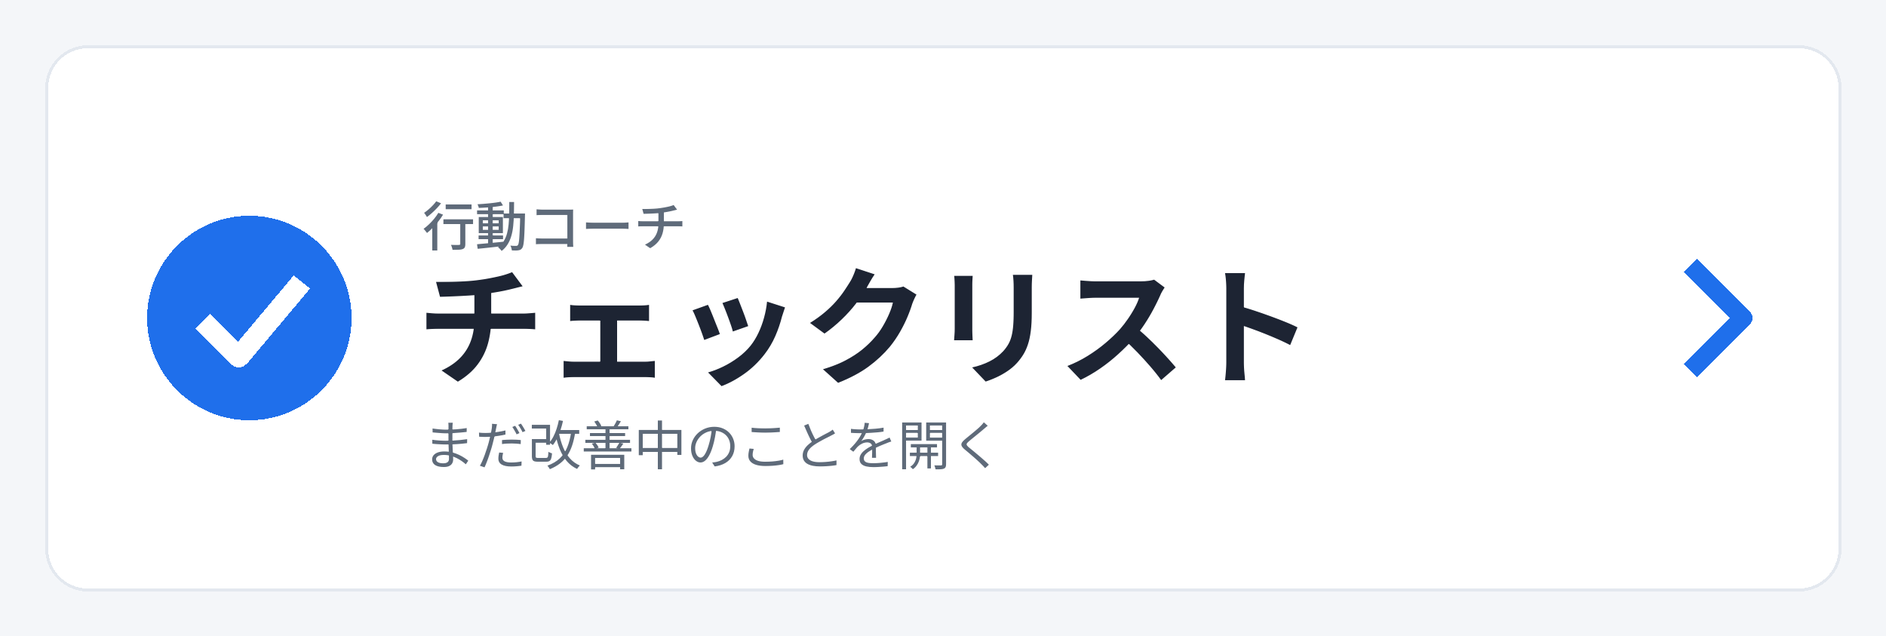
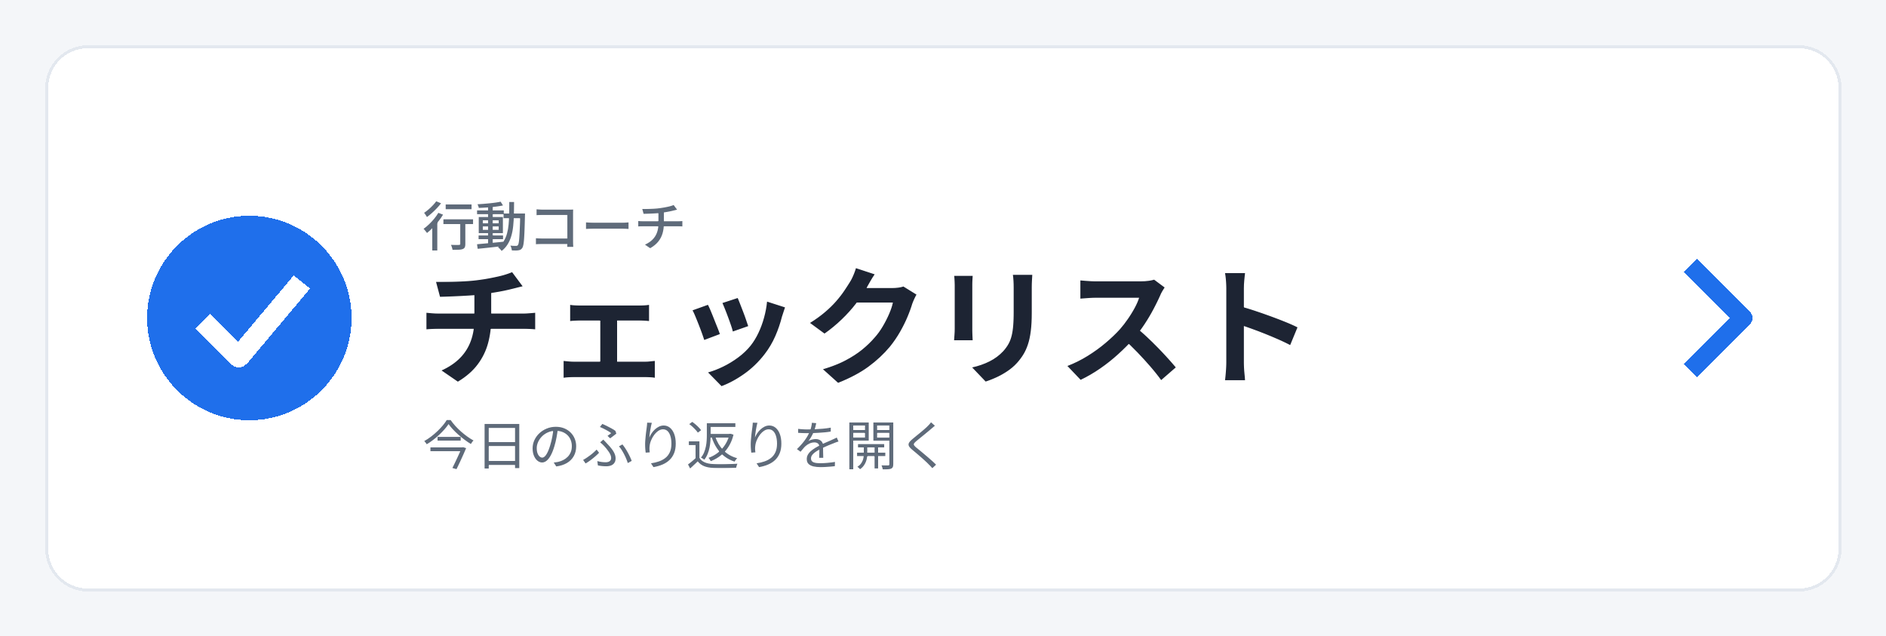
毎日のふり返り（案C：取り組む10・候補・定着）

Changed region(s): [[0.2184, 0.6477, 0.5304, 0.7402]]

diff --git a/index.html b/index.html
@@ -8,181 +8,226 @@
 <link rel="preconnect" href="https://script.google.com">
 <link rel="preconnect" href="https://script.googleusercontent.com">
 <!--
-  行動コーチのチェックリスト（LINE の中でせり出す画面＝LIFF のページ）。デザインは案6「大きなタップと右のチェック」（2026-10-11 ユーザー選定）
-  Google の帯を出さないため、GitHub Pages に置く。このファイルには記録も合言葉も入れない。
+  行動コーチの「今日のふり返り」（LINE の中でせり出す画面＝LIFF のページ）
+  - いま取り組む10を毎日ふり返り、「できた」を押す（2択）。定着したら外す（2026-10-11 ユーザーの希望）
+  - デザイン案C：上に今日の数と7日の棒、リストは名前だけ。「編集」で − と ＋（項目ごとの7日の数も編集のときだけ出す）
+  - 見た目は AI家計簿にそろえる。Google の帯を出さないため GitHub Pages に置く。記録も合言葉もこのファイルには入れない
   開き方：LIFF の Endpoint URL = このページ?k=合言葉&api=スプレッドシート側の公開URL
-          カードから開くときの条件（q・focus）は、LINE が liff.state に入れて渡す
-  記録の読み書きは api（Apps Script の doGet）に JSON で頼む。元のコードは 04_Claude/14_BehaviorCoach/checklist/index.html
+  元のコードは 03_program リポジトリの 04_Claude/14_BehaviorCoach/checklist/index.html
 -->
 <style>
-  /* 見た目は AI家計簿の報告ページ（11_HouseholdManagement/gas/src/Report.html）にそろえる（2026-10-11 ユーザーの希望）
-     白いカード・細い線・角丸14px・薄い影・青、文字はスマホ標準 */
   :root {
     --bg: #f4f6f9; --card: #ffffff; --ink: #1d2433; --sub: #5f6b7a; --line: #e3e8ef; --soft: #f6f8fb;
-    --accent: #1f6feb; --accent-soft: #eef4ff; --ok: #1a8a4a; --ok-soft: #e8f5ed; --amber: #b06d00; --ring: #c5cdd8;
+    --accent: #1f6feb; --accent-soft: #eef4ff; --bar: #c9dafc; --ok: #1a8a4a; --ok-soft: #e8f5ed; --amber: #b06d00; --ring: #c5cdd8; --red: #e5484d;
     --shadow: 0 1px 2px rgba(20,30,50,.06), 0 4px 16px rgba(20,30,50,.05);
   }
   @media (prefers-color-scheme: dark) {
     :root { --bg: #10141b; --card: #1a2029; --ink: #e8edf4; --sub: #9aa7b8; --line: #2a323e; --soft: #212834;
-      --accent: #5b9dff; --accent-soft: #1b2a40; --ok: #4cc27f; --ok-soft: #173326; --amber: #e5b23a; --ring: #4a5666; --shadow: none; color-scheme: dark; }
+      --accent: #5b9dff; --accent-soft: #1b2a40; --bar: #2c4166; --ok: #4cc27f; --ok-soft: #173326; --amber: #e5b23a; --ring: #4a5666; --red: #ff6b6b; --shadow: none; color-scheme: dark; }
   }
   * { box-sizing: border-box; }
   html, body { margin: 0; }
   body { background: var(--bg); color: var(--ink); font-family: -apple-system, BlinkMacSystemFont, "Hiragino Sans", "Noto Sans JP", "Yu Gothic UI", sans-serif;
     font-size: 15px; line-height: 1.55; -webkit-text-size-adjust: 100%; padding-bottom: env(safe-area-inset-bottom, 0px); }
-  button, select { font: inherit; color: inherit; }
+  button { font: inherit; color: inherit; }
   .wrap { max-width: 640px; margin: 0 auto; padding: 14px 16px 32px; }
-  header { display: flex; align-items: flex-end; justify-content: space-between; gap: 8px; margin: 2px 0 12px; }
+  header { display: flex; align-items: flex-end; gap: 8px; margin: 2px 0 12px; }
   header .app { font-size: 12px; color: var(--sub); }
   header h1 { font-size: 22px; margin: 0; letter-spacing: .02em; }
-  header select { font-size: 13px; border: 1px solid var(--line); border-radius: 999px; padding: 6px 12px; background: var(--card); }
-  .scope { display: flex; gap: 6px; overflow-x: auto; scrollbar-width: none; margin: 0 -16px 4px; padding: 0 16px; }
-  .scope::-webkit-scrollbar { display: none; }
-  .scope button { flex: 0 0 auto; border: 1px solid var(--line); background: var(--card); border-radius: 999px; padding: 6px 13px; font-size: 13px; cursor: pointer; white-space: nowrap; }
-  .scope button.on { background: var(--ink); color: var(--bg); border-color: var(--ink); }
-  .meta { font-size: 12px; color: var(--sub); margin: 6px 2px 10px; min-height: 18px; }
+  .edit { margin-left: auto; border: 1px solid var(--line); background: var(--card); border-radius: 999px; padding: 6px 14px; font-size: 13px; cursor: pointer; }
+  .edit.on { background: var(--accent); border-color: var(--accent); color: #fff; }
   .card { background: var(--card); border: 1px solid var(--line); border-radius: 14px; box-shadow: var(--shadow); overflow: hidden; margin-bottom: 14px; }
   .card h2 { font-size: 13px; color: var(--sub); font-weight: 600; margin: 0; padding: 12px 14px 4px; letter-spacing: .04em; }
+  .stat { display: flex; align-items: center; gap: 14px; padding: 14px; }
+  .big { font-size: 30px; font-weight: 700; font-variant-numeric: tabular-nums; line-height: 1; }
+  .big span { font-size: 15px; color: var(--sub); font-weight: 600; }
+  .stat small { display: block; font-size: 12px; color: var(--sub); margin-top: 4px; }
+  .bars { margin-left: auto; display: flex; gap: 6px; align-items: flex-end; height: 48px; padding-bottom: 14px; position: relative; }
+  .bars div { width: 16px; border-radius: 3px 3px 0 0; background: var(--bar); position: relative; min-height: 3px; transition: height .25s; }
+  .bars div.t { background: var(--accent); }
+  .bars span { position: absolute; top: 100%; left: 50%; transform: translateX(-50%); font-size: 10px; color: var(--sub); margin-top: 2px; white-space: nowrap; }
   .it { border-top: 1px solid var(--line); }
-  .card h2 + .it, .card > .it:first-child { border-top: 0; }
+  .it:first-child, .card h2 + .it { border-top: 0; }
   .row { display: flex; align-items: stretch; }
-  .main { flex: 1; min-width: 0; padding: 12px 6px 12px 14px; border: 0; background: none; text-align: left; cursor: pointer; }
+  .minus, .plus { flex: 0 0 auto; width: 26px; height: 26px; border-radius: 50%; border: 0; color: #fff; font-weight: 700; font-size: 16px; line-height: 1; cursor: pointer; align-self: center; margin-left: 12px; }
+  .minus { background: var(--red); }
+  .plus { background: var(--ok); margin: 0 12px 0 0; }
+  .main { flex: 1; min-width: 0; padding: 13px 6px 13px 14px; border: 0; background: none; text-align: left; cursor: pointer; }
   .nm { font-size: 15px; font-weight: 600; line-height: 1.45; }
-  .sb { font-size: 12px; color: var(--sub); margin-top: 2px; }
-  .tag { display: inline-block; font-size: 11px; color: var(--sub); border: 1px solid var(--line); border-radius: 4px; padding: 0 4px; margin-right: 6px; }
+  .tag { display: inline-block; font-size: 11px; color: var(--sub); border: 1px solid var(--line); border-radius: 4px; padding: 0 4px; margin-top: 3px; }
+  .rate { flex: 0 0 auto; align-self: center; padding: 0 14px; font-size: 12px; color: var(--sub); font-variant-numeric: tabular-nums; white-space: nowrap; }
   .ck { flex: 0 0 66px; border: 0; border-left: 1px solid var(--line); background: var(--soft); cursor: pointer; font-size: 11.5px; color: var(--sub); padding: 0; transition: background .2s, color .2s; }
   .ck i { font-style: normal; width: 28px; height: 28px; border-radius: 50%; border: 2px solid var(--ring); margin: 0 auto 3px; display: grid; place-items: center; font-size: 14px; transition: transform .15s, background .2s, border-color .2s; }
   .done .ck { background: var(--ok-soft); color: var(--ok); }
   .done .ck i { background: var(--ok); border-color: var(--ok); color: #fff; transform: scale(1.06); }
-  .done .nm { color: var(--sub); }
   .det { display: none; padding: 0 14px 14px; font-size: 14px; }
   .open .det { display: block; }
   .dl { font-size: 11px; font-weight: 700; margin: 8px 0 3px; }
   .plan { background: var(--accent-soft); color: var(--accent); border-radius: 10px; padding: 8px 10px; }
   .ev { display: grid; grid-template-columns: 44px 1fr; gap: 6px; font-size: 13px; padding: 2px 0; }
   .ev .d { color: var(--sub); }
+  .crow { display: flex; align-items: center; padding: 11px 14px; border-top: 1px solid var(--line); }
+  .card h2 + .crow { border-top: 0; }
+  .crow .t { flex: 1; min-width: 0; font-size: 14px; }
+  .crow small { display: block; font-size: 11.5px; color: var(--sub); }
   .empty { padding: 18px 14px; text-align: center; color: var(--sub); font-size: 14px; }
-  .foot { font-size: 12px; color: var(--sub); margin: 4px 2px 0; }
-  .toast { position: fixed; left: 50%; bottom: calc(18px + env(safe-area-inset-bottom, 0px)); transform: translateX(-50%); background: var(--ink); color: var(--bg); padding: 8px 14px; border-radius: 999px; font-size: 13px; opacity: 0; transition: opacity .2s; pointer-events: none; max-width: 90%; }
+  .note { font-size: 12px; color: var(--sub); margin: 0 2px 12px; }
+  .scrim { position: fixed; inset: 0; background: rgba(0,0,0,.3); opacity: 0; pointer-events: none; transition: opacity .2s; z-index: 4; }
+  .sheet { position: fixed; left: 0; right: 0; bottom: 0; background: var(--card); border-radius: 16px 16px 0 0; box-shadow: 0 -8px 24px rgba(0,0,0,.15); transform: translateY(105%); transition: transform .25s; max-height: 75vh; overflow-y: auto; z-index: 5; padding-bottom: calc(10px + env(safe-area-inset-bottom, 0px)); }
+  .sheet.open { transform: none; } .scrim.open { opacity: 1; pointer-events: auto; }
+  .sheet .hd { display: flex; gap: 8px; padding: 14px 14px 6px; font-weight: 700; font-size: 15px; }
+  .sheet .hd button { margin-left: auto; border: 0; background: none; font-size: 20px; line-height: 1; cursor: pointer; color: var(--sub); }
+  .sheet .sub { padding: 0 14px 6px; font-size: 12.5px; color: var(--sub); }
+  .opt { display: block; width: calc(100% - 28px); margin: 8px 14px; text-align: left; border: 1px solid var(--line); background: var(--card); border-radius: 12px; padding: 11px 13px; cursor: pointer; }
+  .opt b { display: block; font-size: 15px; }
+  .opt small { color: var(--sub); font-size: 12px; }
+  .opt.ok b { color: var(--ok); }
+  .toast { position: fixed; left: 50%; bottom: calc(18px + env(safe-area-inset-bottom, 0px)); transform: translateX(-50%); background: var(--ink); color: var(--bg); padding: 8px 14px; border-radius: 999px; font-size: 13px; opacity: 0; transition: opacity .2s; pointer-events: none; max-width: 90%; z-index: 9; }
   .toast.on { opacity: .95; }
-  .skel { height: 62px; border-top: 1px solid var(--line); }
-  .skel:first-child { border-top: 0; }
+  .skel { height: 58px; border-top: 1px solid var(--line); } .skel:first-child { border-top: 0; }
   @media (prefers-reduced-motion: reduce) { * { transition: none !important; } }
 </style>
 </head>
 <body>
 <div class="wrap">
   <header>
-    <div><div class="app">行動コーチ</div><h1>まだ改善中のこと</h1></div>
-    <select id="period" aria-label="期間">
-      <option value="">全部</option><option>今週</option><option>先週</option><option>今月</option><option>先月</option><option>今年</option>
-    </select>
+    <div><div class="app">行動コーチ</div><h1>今日のふり返り</h1></div>
+    <button class="edit" id="edit">編集</button>
   </header>
-  <div class="scope" id="scope"></div>
-  <div class="meta" id="meta">読み込み中…</div>
+  <div class="card"><div class="stat"><div><div class="big" id="big">–</div><small>今日できた</small></div><div class="bars" id="bars"></div></div></div>
   <div class="card" id="list"><div class="skel"></div><div class="skel"></div><div class="skel"></div></div>
-  <div id="arch"></div>
-  <p class="foot">右の「できた」を押すとクリアになる。もう一度押すと改善中に戻る。同じ型のことがまた起きたら、クリアにしたものも自動で改善中に戻る。</p>
+  <div id="extra"></div>
+  <p class="note" id="note">できたものの右を押す。日付が変わると、まっさらに戻る（記録は残る）。</p>
 </div>
+<div class="scrim" id="scrim"></div>
+<div class="sheet" id="sheet" role="dialog"></div>
 <div class="toast" id="toast" role="status"></div>
 
 <script>
 (function () {
-  var SCOPES = ['すべて', '家庭・夫婦', '職場', '友人・知人', '親族', 'ひとり'];
-  var PERIOD_WORDS = ['今週', '先週', '今月', '先月', '今年'];
-
-  // ---- 呼び出しの条件を読む（LIFF は ?q=… を liff.state に入れて渡す） ----
+  // ---- 呼び出しの条件（LIFF は追加の条件を liff.state に入れて渡す） ----
   var params = new URLSearchParams(location.search);
   var state = params.get('liff.state');
   if (state) new URLSearchParams(state.replace(/^[^?]*\?/, '')).forEach(function (v, k) { params.set(k, v); });
-  var KEY = params.get('k') || '';
-  var API = params.get('api') || '';
-  var focus = (params.get('focus') || '').replace(/[^A-Za-z0-9-]/g, '');
-  var words = (params.get('q') || '').split(/[\s　、,]+/).filter(Boolean);
-  var period = '', scope = 'すべて', rest = [];
-  words.forEach(function (w) {
-    if (!period && PERIOD_WORDS.indexOf(w) >= 0) period = w;
-    else if (scope === 'すべて' && SCOPES.indexOf(w) > 0) scope = w;
-    else if (scope === 'すべて' && { '夫婦': 1, '家庭': 1, '家': 1 }[w]) scope = '家庭・夫婦';
-    else if (scope === 'すべて' && { '仕事': 1, '会社': 1 }[w]) scope = '職場';
-    else rest.push(w); // 「妻」など相手の言葉や、10月のような期間はそのままサーバーに渡す
-  });
-  var DATA = null;
+  var KEY = params.get('k') || '', API = params.get('api') || '';
+  var DATA = null, editing = false, pending = 0, seq = 0;
 
   var $ = function (id) { return document.getElementById(id); };
   var esc = function (s) { return String(s == null ? '' : s).replace(/[&<>"]/g, function (c) { return { '&': '&amp;', '<': '&lt;', '>': '&gt;', '"': '&quot;' }[c]; }); };
   var md = function (s) { var m = String(s || '').match(/^\d{4}-(\d{2})-(\d{2})/); return m ? Number(m[1]) + '/' + Number(m[2]) : esc(s); };
   function toast(t) { var x = $('toast'); x.textContent = t; x.classList.add('on'); clearTimeout(toast.t); toast.t = setTimeout(function () { x.classList.remove('on'); }, 1600); }
-
-  function query() { return [period, scope === 'すべて' ? '' : scope].concat(rest).filter(Boolean).join(' '); }
   function call(p) {
     var u = API + (API.indexOf('?') >= 0 ? '&' : '?') + 'k=' + encodeURIComponent(KEY) + '&' + new URLSearchParams(p).toString();
     return fetch(u).then(function (r) { return r.json(); }).then(function (j) { if (!j.ok) throw new Error(j.error || '失敗'); return j.data; });
   }
+  // 前回の中身をスマホに覚えておき、開いた瞬間に出す（日付が違えばチェックはまっさらにして出す）
+  function remember() { try { localStorage.setItem('bc:daily', JSON.stringify(DATA)); } catch (e) { /* 覚えなくても動く */ } }
+  function recall() {
+    try {
+      var d = JSON.parse(localStorage.getItem('bc:daily') || 'null');
+      var n = new Date(), t = n.getFullYear() + '-' + ('0' + (n.getMonth() + 1)).slice(-2) + '-' + ('0' + n.getDate()).slice(-2);
+      if (d && d.date !== t) { d.items.forEach(function (i) { i.checked = false; }); d.todayDone = 0; }
+      return d;
+    } catch (e) { return null; }
+  }
+  function find(id, from) { var a = from || DATA.items; for (var i = 0; i < a.length; i++) if (a[i].id === id) return a[i]; return null; }
+  function recount() {
+    DATA.todayDone = DATA.items.filter(function (i) { return i.checked; }).length; DATA.total = DATA.items.length;
+    if (DATA.week && DATA.week.length) DATA.week[DATA.week.length - 1].rate = DATA.total ? DATA.todayDone / DATA.total : 0;
+  }
 
   function itemHtml(it) {
     var ev = (it.events || []).map(function (e) { return '<div class="ev"><span class="d">' + md(e.date) + '</span><span>' + esc(e.text) + (e.partner ? '（' + esc(e.partner) + '）' : '') + '</span></div>'; }).join('');
-    return '<div class="it' + (it.cleared ? ' done' : '') + (it.id === focus ? ' open' : '') + '" id="' + esc(it.id) + '">' +
-      '<div class="row"><button class="main" data-o="' + esc(it.id) + '"><div class="nm">' + esc(it.name) + '</div>' +
-      '<div class="sb">' + (it.domains || []).map(function (d) { return '<span class="tag">' + esc(d) + '</span>'; }).join('') + '最後 ' + md(it.last) + '</div></button>' +
-      '<button class="ck" data-c="' + esc(it.id) + '" aria-pressed="' + !!it.cleared + '"><i>' + (it.cleared ? '✓' : '') + '</i>' + (it.cleared ? 'クリア' : 'できた') + '</button></div>' +
+    var right = editing ? '<span class="rate">7日で' + (it.rate7 || 0) + '</span>'
+      : '<button class="ck" data-c="' + esc(it.id) + '" aria-pressed="' + !!it.checked + '"><i>' + (it.checked ? '✓' : '') + '</i>' + (it.checked ? 'できた' : '今日は？') + '</button>';
+    return '<div class="it' + (it.checked && !editing ? ' done' : '') + '" id="i-' + esc(it.id) + '"><div class="row">' +
+      (editing ? '<button class="minus" data-rm="' + esc(it.id) + '" aria-label="外す">−</button>' : '') +
+      '<button class="main" data-o="' + esc(it.id) + '"><div class="nm">' + esc(it.name) + '</div>' + ((it.domains || [])[0] ? '<span class="tag">' + esc(it.domains[0]) + '</span>' : '') + '</button>' + right + '</div>' +
       '<div class="det">' + (it.plan ? '<div class="dl" style="color:var(--accent)">次にすること</div><div class="plan">' + esc(it.plan) + '</div>' : '') +
       (it.essence ? '<div class="dl" style="color:var(--amber)">本質（見立て）</div><div>' + esc(it.essence) + '</div>' : '') +
-      (ev ? '<div class="dl" style="color:var(--sub)">出来事（新しい順）</div>' + ev : '') + '</div></div>';
+      (ev ? '<div class="dl" style="color:var(--sub)">最近の出来事</div>' + ev : '') + '</div></div>';
   }
 
   function render() {
-    $('period').value = period;
-    $('scope').innerHTML = SCOPES.map(function (s) { return '<button class="' + (s === scope ? 'on' : '') + '" data-s="' + s + '">' + s + '</button>'; }).join('');
+    $('edit').textContent = editing ? '完了' : '編集';
+    $('edit').classList.toggle('on', editing);
     if (!DATA) return;
-    $('meta').textContent = DATA.label + (DATA.range ? '（' + DATA.range + '）' : '') + (DATA.omitted ? '　重さと新しさで選んだ' + DATA.items.length + 'つ（ほかに' + DATA.omitted + '）' : '');
-    $('list').innerHTML = DATA.items.length ? DATA.items.map(itemHtml).join('') : '<div class="empty">この条件では、改善中のことはない。</div>';
-    $('arch').innerHTML = DATA.archived.length ? '<div class="card"><h2>クリアにしたもの</h2>' + DATA.archived.map(itemHtml).join('') + '</div>' : '';
-    if (focus) { var f = $(focus); if (f) f.scrollIntoView({ block: 'center' }); focus = ''; }
+    $('big').innerHTML = DATA.todayDone + '<span>/' + DATA.total + '</span>';
+    $('bars').innerHTML = (DATA.week || []).map(function (w, i, a) { return '<div class="' + (i === a.length - 1 ? 't' : '') + '" style="height:' + Math.max(3, Math.round(w.rate * 34)) + 'px"><span>' + esc(w.label) + '</span></div>'; }).join('');
+    $('list').innerHTML = DATA.items.length ? DATA.items.map(itemHtml).join('') : '<div class="empty">取り組むものがまだない。' + (DATA.candidates.length ? '「編集」から候補を足す。' : 'LINE にメモを送ると、ここに入る。') + '</div>';
+    var ex = '';
+    if (editing) {
+      ex += '<div class="card"><h2>候補から足す（入れるとよい順）</h2>' + (DATA.candidates.length ? DATA.candidates.map(function (c) {
+        return '<div class="crow"><button class="plus" data-add="' + esc(c.id) + '" aria-label="足す">＋</button><div class="t">' + esc(c.name) + '<small>' + esc((c.domains || []).join('・')) + (c.last ? '　最後 ' + md(c.last) : '') + '</small></div></div>';
+      }).join('') : '<div class="empty">候補はない。</div>') + '</div>';
+      ex += '<p class="note">− で外す（定着した／候補に戻す）。取り組むは最大10。いっぱいのときに ＋ を押すと、入れ替える相手を選べる。定着したもの ' + (DATA.graduated || 0) + '。</p>';
+    }
+    $('extra').innerHTML = ex;
+    $('note').hidden = editing;
   }
 
-  // 前回の中身をスマホに覚えておき、開いた瞬間に出す。新しい中身は裏で読み直して差し替える（開くのを速くする）
-  function cacheKey() { return 'bc:' + query(); }
-  function remember() { try { localStorage.setItem(cacheKey(), JSON.stringify(DATA)); } catch (e) { /* 覚えられなくても動く */ } }
-  function recall() { try { return JSON.parse(localStorage.getItem(cacheKey()) || 'null'); } catch (e) { return null; } }
-
-  var seq = 0;
   function load() {
-    if (!KEY || !API) { $('meta').textContent = 'LINE の行動コーチから開いてほしい。'; $('list').innerHTML = ''; return; }
-    var my = ++seq;
-    var cached = recall();
+    if (!KEY || !API) { $('list').innerHTML = '<div class="empty">LINE の行動コーチから開いてほしい。</div>'; return; }
+    var my = ++seq, cached = recall();
     if (cached) { DATA = cached; render(); }
-    call({ api: 'data', q: query() }).then(function (d) {
-      if (my !== seq || pending > 0) return; // 条件を変えた・保存中なら、古い返事で上書きしない
-      DATA = d; render(); remember();
-    }).catch(function (e) { if (!cached) $('meta').textContent = '読み込めなかった：' + e.message; });
+    call({ api: 'daily' }).then(function (d) { if (my !== seq || pending > 0) return; DATA = d; render(); remember(); })
+      .catch(function (e) { if (!cached) $('list').innerHTML = '<div class="empty">読み込めなかった：' + esc(e.message) + '</div>'; });
   }
-  var pending = 0;
+  // 押した瞬間に見た目を変え、保存は裏で行う。失敗したら知らせて読み直す
+  function save(p, msg) {
+    pending++; render(); remember();
+    call(p).then(function () { pending = Math.max(0, pending - 1); if (msg) toast(msg); })
+      .catch(function (e) { pending = 0; toast('保存できなかった：' + e.message); load(); });
+  }
 
-  function find(id) {
-    var all = DATA.items.concat(DATA.archived);
-    for (var i = 0; i < all.length; i++) if (all[i].id === id) return all[i];
-    return null;
-  }
+  // ---- 下からせり出す選択（外す・入れ替え） ----
+  function sheet(html) { $('sheet').innerHTML = html; $('sheet').classList.add('open'); $('scrim').classList.add('open'); }
+  function closeSheet() { $('sheet').classList.remove('open'); $('scrim').classList.remove('open'); }
+  $('scrim').addEventListener('click', closeSheet);
 
   document.addEventListener('click', function (e) {
     var t = e.target.closest('button'); if (!t) return;
-    if (t.dataset.o) { $(t.dataset.o).classList.toggle('open'); return; }
-    if (t.dataset.s) { scope = t.dataset.s; render(); load(); return; }
-    if (t.dataset.c && DATA) {
-      var it = find(t.dataset.c); if (!it) return;
-      var box = $(it.id);
-      // 押した瞬間に見た目を変える（返事を待たない）。保存は裏で行い、失敗したときだけ元に戻して知らせる
-      var v = !it.cleared;
-      var paint = function (on) { it.cleared = on; box.classList.toggle('done', on); t.innerHTML = '<i>' + (on ? '✓' : '') + '</i>' + (on ? 'クリア' : 'できた'); };
-      paint(v); remember();
-      pending++;
-      call({ api: 'done', t: it.id, v: v ? '1' : '0' })
-        .catch(function (err) { if (it.cleared === v) { paint(!v); remember(); } toast('保存できなかった：' + err.message); })
-        .then(function () { pending--; });
+    if (t.id === 'edit') { editing = !editing; render(); return; }
+    if (!DATA) return;
+    var ds = t.dataset, it;
+    if (ds.o) { $('i-' + ds.o).classList.toggle('open'); return; }
+    if (ds.c) { it = find(ds.c); it.checked = !it.checked; recount(); save({ api: 'check', t: it.id, v: it.checked ? '1' : '0' }); return; }
+    if (ds.rm) {
+      it = find(ds.rm);
+      sheet('<div class="hd">' + esc(it.name) + '<button data-close="1" aria-label="閉じる">×</button></div>' +
+        '<button class="opt ok" data-grad="' + esc(it.id) + '"><b>定着した</b><small>リストから外し、卒業として記録に残す。また同じことが起きたら戻ってくる</small></button>' +
+        '<button class="opt" data-back="' + esc(it.id) + '"><b>候補に戻す</b><small>いったん休む。あとで「編集」から入れ直せる</small></button>');
+      return;
+    }
+    if (ds.close) { closeSheet(); return; }
+    if (ds.grad || ds.back) {
+      var id = ds.grad || ds.back; it = find(id);
+      DATA.items = DATA.items.filter(function (x) { return x.id !== id; });
+      if (ds.grad) DATA.graduated = (DATA.graduated || 0) + 1; else DATA.candidates.unshift({ id: it.id, name: it.name, domains: it.domains, last: it.last, plan: it.plan });
+      recount(); closeSheet();
+      save({ api: 'move', t: id, to: ds.grad ? '定着' : '候補' }, ds.grad ? '定着した。おつかれさま' : '候補に戻した');
+      return;
+    }
+    if (ds.add) {
+      var c = find(ds.add, DATA.candidates);
+      if (DATA.items.length >= 10) {
+        sheet('<div class="hd">10がいっぱい。どれと入れ替える？<button data-close="1" aria-label="閉じる">×</button></div><div class="sub">入れるもの：' + esc(c.name) + '</div>' +
+          DATA.items.map(function (x) { return '<button class="opt" data-swap="' + esc(x.id) + '" data-in="' + esc(c.id) + '"><b>' + esc(x.name) + '</b><small>7日で' + (x.rate7 || 0) + '　→ 候補に戻す</small></button>'; }).join(''));
+        return;
+      }
+      DATA.candidates = DATA.candidates.filter(function (x) { return x.id !== c.id; });
+      DATA.items.push({ id: c.id, name: c.name, domains: c.domains, last: c.last, plan: c.plan, checked: false, rate7: 0 });
+      recount(); save({ api: 'move', t: c.id, to: '取り組む' }, '取り組むに入れた');
+      return;
+    }
+    if (ds.swap) {
+      var out = find(ds.swap), inn = find(ds['in'], DATA.candidates);
+      DATA.items = DATA.items.map(function (x) { return x.id === out.id ? { id: inn.id, name: inn.name, domains: inn.domains, last: inn.last, plan: inn.plan, checked: false, rate7: 0 } : x; });
+      DATA.candidates = [{ id: out.id, name: out.name, domains: out.domains, last: out.last, plan: out.plan }].concat(DATA.candidates.filter(function (x) { return x.id !== inn.id; }));
+      recount(); closeSheet();
+      save({ api: 'swap', out: out.id, 'in': inn.id }, '入れ替えた');
     }
   });
-  $('period').addEventListener('change', function () { period = this.value; load(); });
 
   render();
   load();
